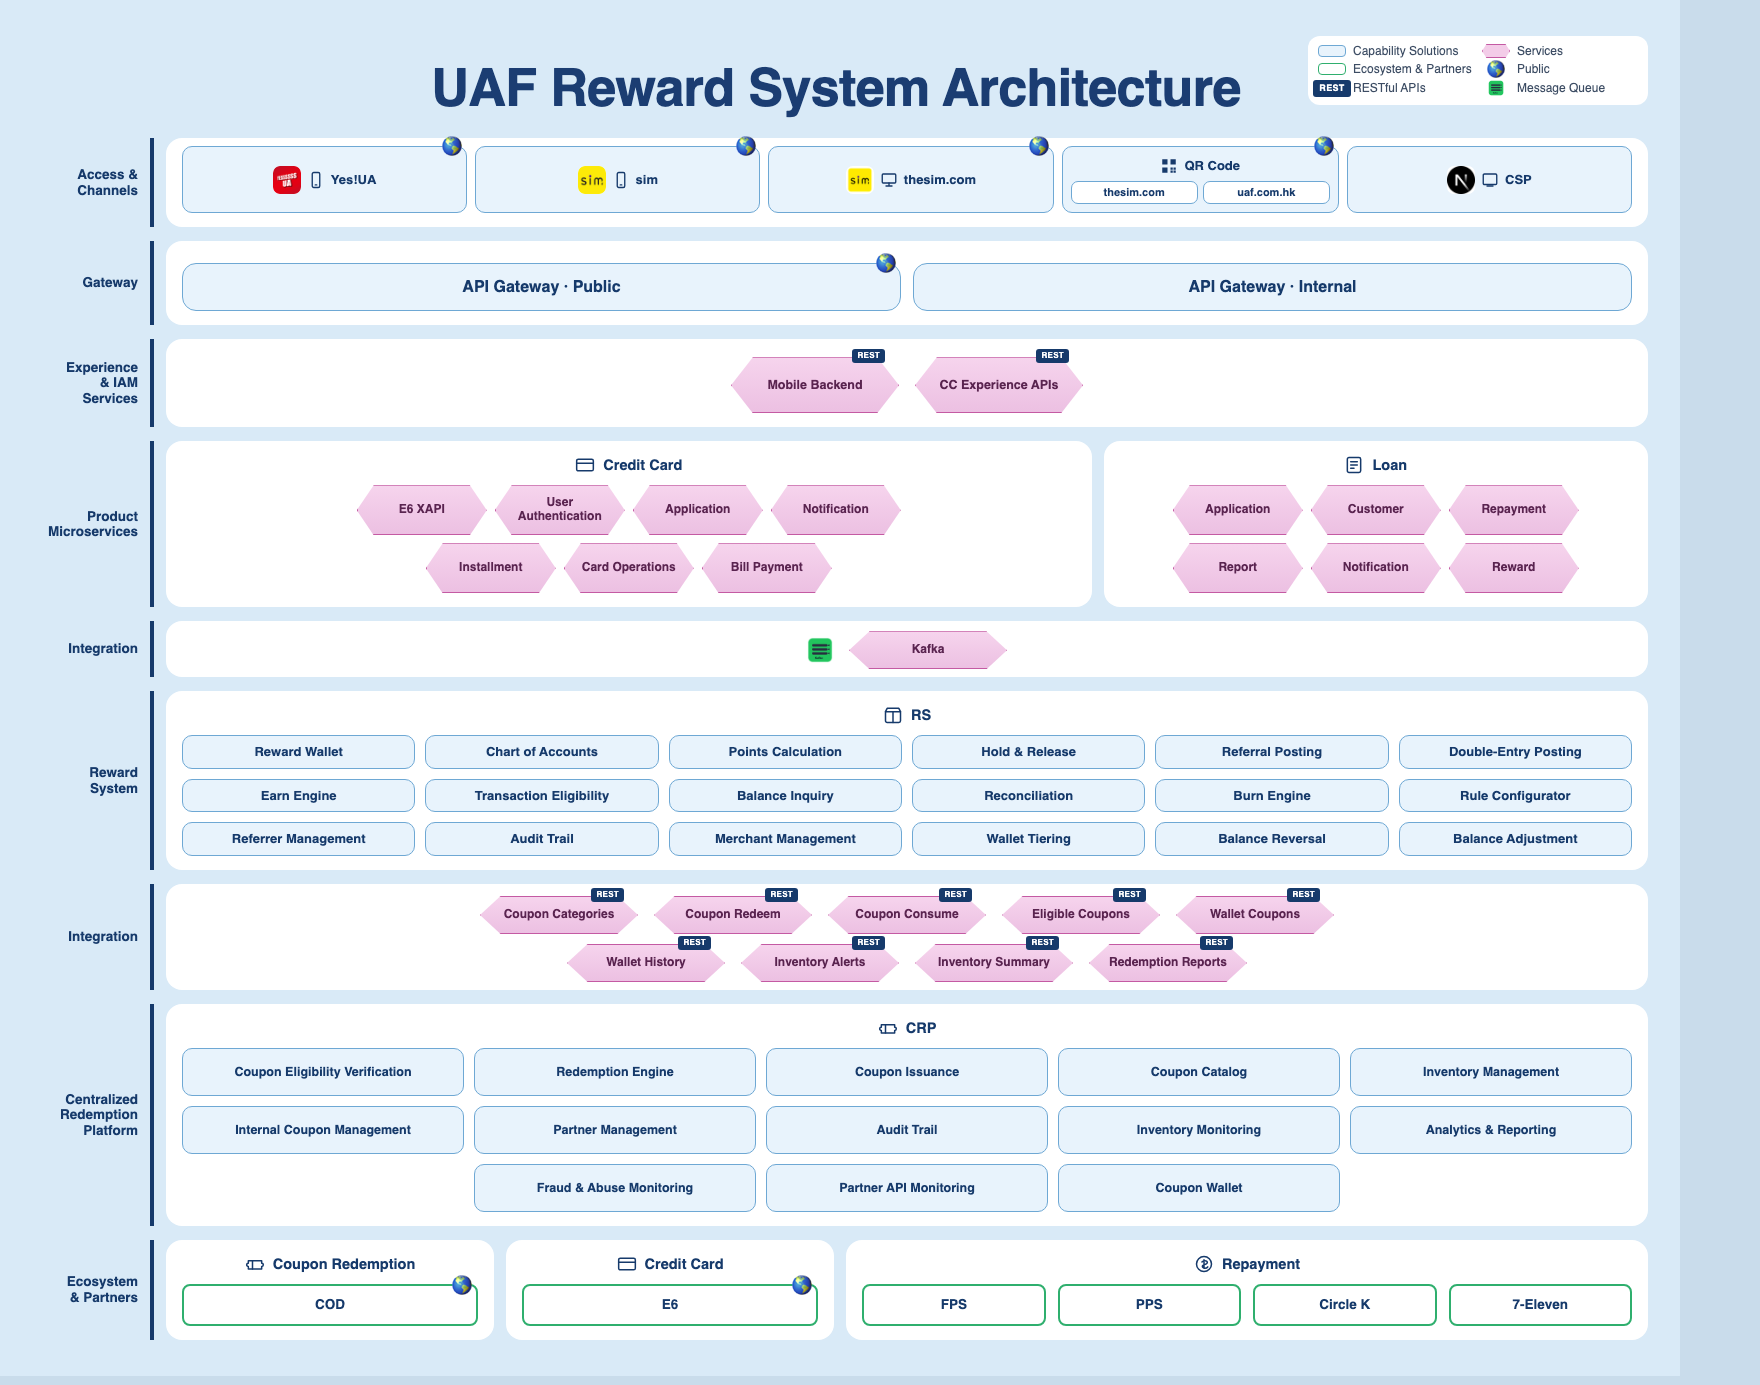
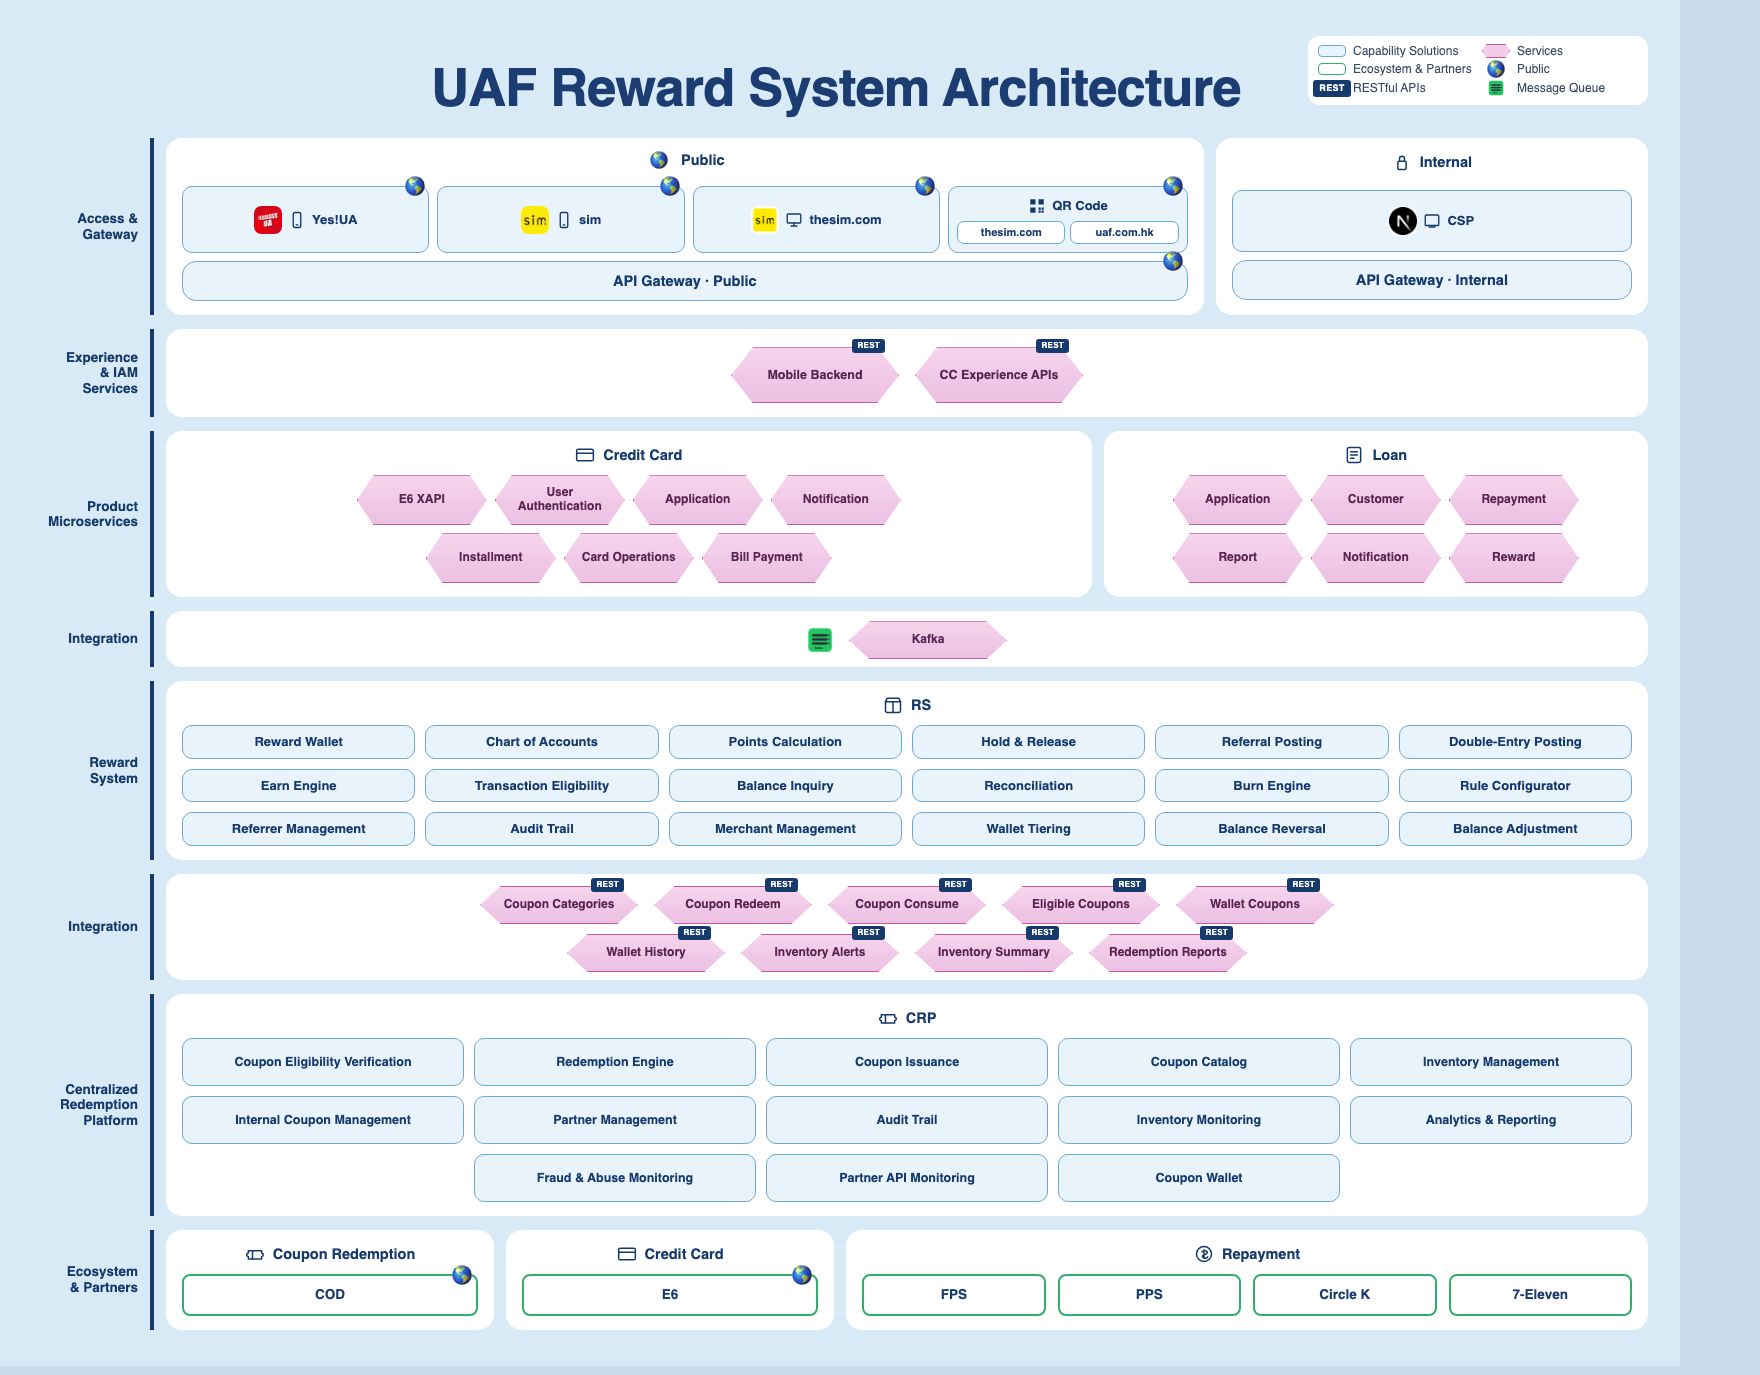
docs(decks): merge Access & Gateway into Public / Internal islands

diff --git a/docs/decks/uaf-rewards-logical-architecture.html b/docs/decks/uaf-rewards-logical-architecture.html
@@ -14,7 +14,7 @@
   .g{
     display:grid;
     grid-template-columns: 130px 1fr;
-    grid-template-rows: repeat(9, auto);
+    grid-template-rows: repeat(8, auto);
     gap: 14px 12px;
     align-items: stretch;
   }
@@ -83,24 +83,24 @@
   .thin-int .svcw{width:158px}
   .thin-int .klogo{width:26px;height:26px}
 
+  .acc{display:grid;grid-template-columns:2.4fr 1fr;gap:12px;align-items:stretch}
+  .acc .gw{margin-top:8px;font-size:14.5px;min-height:40px}
   .l1{grid-column:1;grid-row:1}
   .c1{grid-column:2;grid-row:1}
-  .l2r{grid-column:1;grid-row:2}
-  .c2{grid-column:2;grid-row:2}
-  .l3{grid-column:1;grid-row:3}
-  .c3{grid-column:2;grid-row:3}
-  .l4{grid-column:1;grid-row:4}
-  .c4{grid-column:2;grid-row:4}
-  .l5{grid-column:1;grid-row:5}
-  .c5{grid-column:2;grid-row:5}
-  .l6{grid-column:1;grid-row:6}
-  .c6{grid-column:2;grid-row:6}
-  .l7{grid-column:1;grid-row:7}
-  .c7{grid-column:2;grid-row:7}
-  .l8{grid-column:1;grid-row:8}
-  .c8{grid-column:2;grid-row:8}
-  .l9{grid-column:1;grid-row:9}
-  .c9{grid-column:2;grid-row:9}
+  .l3{grid-column:1;grid-row:2}
+  .c3{grid-column:2;grid-row:2}
+  .l4{grid-column:1;grid-row:3}
+  .c4{grid-column:2;grid-row:3}
+  .l5{grid-column:1;grid-row:4}
+  .c5{grid-column:2;grid-row:4}
+  .l6{grid-column:1;grid-row:5}
+  .c6{grid-column:2;grid-row:5}
+  .l7{grid-column:1;grid-row:6}
+  .c7{grid-column:2;grid-row:6}
+  .l8{grid-column:1;grid-row:7}
+  .c8{grid-column:2;grid-row:7}
+  .l9{grid-column:1;grid-row:8}
+  .c9{grid-column:2;grid-row:8}
 </style>
 </head>
 <body>
@@ -117,48 +117,55 @@
     </div>
   </div>
   <div class="g">
-    <div class="lab l1">Access &amp;<br>Channels</div>
-    <div class="card c1 ch row">
-      <div class="cap">
-        <img class="logo" src="logos/yesua.png" alt="Yes!UA"/>
-        <svg class="ico" viewBox="0 0 24 24"><rect x="7" y="2" width="10" height="20" rx="2"/><line x1="11" y1="18.5" x2="13" y2="18.5"/></svg>
-        <span>Yes!UA</span>
-        <span class="badge-pub">🌎</span>
-      </div>
-      <div class="cap">
-        <img class="logo" src="logos/sim.png" alt="sim"/>
-        <svg class="ico" viewBox="0 0 24 24"><rect x="7" y="2" width="10" height="20" rx="2"/><line x1="11" y1="18.5" x2="13" y2="18.5"/></svg>
-        <span>sim</span>
-        <span class="badge-pub">🌎</span>
-      </div>
-      <div class="cap">
-        <img class="logo" src="logos/thesim.png" alt="thesim.com"/>
-        <svg class="ico" viewBox="0 0 24 24"><rect x="3" y="4" width="18" height="12" rx="1.2"/><path d="M8 20h8M12 16v4"/></svg>
-        <span>thesim.com</span>
-        <span class="badge-pub">🌎</span>
-      </div>
-      <div class="cap qr-box">
-        <span class="qr-head">
-          <svg class="ico" style="fill:#163a6b;stroke:none" viewBox="0 0 24 24"><rect x="3" y="3" width="7" height="7"/><rect x="14" y="3" width="7" height="7"/><rect x="3" y="14" width="7" height="7"/><rect x="14" y="14" width="3" height="3"/><rect x="18" y="14" width="3" height="3"/><rect x="14" y="18" width="3" height="3"/><rect x="18" y="18" width="3" height="3"/></svg>
-          <span>QR Code</span>
-        </span>
-        <div class="qr-subs">
-          <span class="qr-sub">thesim.com</span>
-          <span class="qr-sub">uaf.com.hk</span>
+    <div class="lab l1">Access &amp;<br>Gateway</div>
+    <div class="acc c1">
+      <div class="island">
+        <h3><span class="lg-globe">🌎</span> Public</h3>
+        <div class="ch row">
+          <div class="cap">
+            <img class="logo" src="logos/yesua.png" alt="Yes!UA"/>
+            <svg class="ico" viewBox="0 0 24 24"><rect x="7" y="2" width="10" height="20" rx="2"/><line x1="11" y1="18.5" x2="13" y2="18.5"/></svg>
+            <span>Yes!UA</span>
+            <span class="badge-pub">🌎</span>
+          </div>
+          <div class="cap">
+            <img class="logo" src="logos/sim.png" alt="sim"/>
+            <svg class="ico" viewBox="0 0 24 24"><rect x="7" y="2" width="10" height="20" rx="2"/><line x1="11" y1="18.5" x2="13" y2="18.5"/></svg>
+            <span>sim</span>
+            <span class="badge-pub">🌎</span>
+          </div>
+          <div class="cap">
+            <img class="logo" src="logos/thesim.png" alt="thesim.com"/>
+            <svg class="ico" viewBox="0 0 24 24"><rect x="3" y="4" width="18" height="12" rx="1.2"/><path d="M8 20h8M12 16v4"/></svg>
+            <span>thesim.com</span>
+            <span class="badge-pub">🌎</span>
+          </div>
+          <div class="cap qr-box">
+            <span class="qr-head">
+              <svg class="ico" style="fill:#163a6b;stroke:none" viewBox="0 0 24 24"><rect x="3" y="3" width="7" height="7"/><rect x="14" y="3" width="7" height="7"/><rect x="3" y="14" width="7" height="7"/><rect x="14" y="14" width="3" height="3"/><rect x="18" y="14" width="3" height="3"/><rect x="14" y="18" width="3" height="3"/><rect x="18" y="18" width="3" height="3"/></svg>
+              <span>QR Code</span>
+            </span>
+            <div class="qr-subs">
+              <span class="qr-sub">thesim.com</span>
+              <span class="qr-sub">uaf.com.hk</span>
+            </div>
+            <span class="badge-pub">🌎</span>
+          </div>
         </div>
-        <span class="badge-pub">🌎</span>
-      </div>
-      <div class="cap">
-        <img class="logo" src="logos/nextjs.png" alt="Next.js"/>
-        <svg class="ico" viewBox="0 0 24 24"><rect x="3" y="4" width="18" height="14" rx="1.5"/><path d="M8 20h8"/></svg>
-        <span>CSP</span>
-      </div>
-    </div>
-
-    <div class="lab l2r">Gateway</div>
-    <div class="card c2">
-      <div class="gwrow">
         <div class="gw">API Gateway · Public<span class="badge-pub">🌎</span></div>
+      </div>
+      <div class="island">
+        <h3>
+          <svg class="ico" viewBox="0 0 24 24"><rect x="7" y="11" width="10" height="10" rx="1.5"/><path d="M9 11V8a3 3 0 0 1 6 0v3"/></svg>
+          Internal
+        </h3>
+        <div class="ch row">
+          <div class="cap">
+            <img class="logo" src="logos/nextjs.png" alt="Next.js"/>
+            <svg class="ico" viewBox="0 0 24 24"><rect x="3" y="4" width="18" height="14" rx="1.5"/><path d="M8 20h8"/></svg>
+            <span>CSP</span>
+          </div>
+        </div>
         <div class="gw">API Gateway · Internal</div>
       </div>
     </div>
